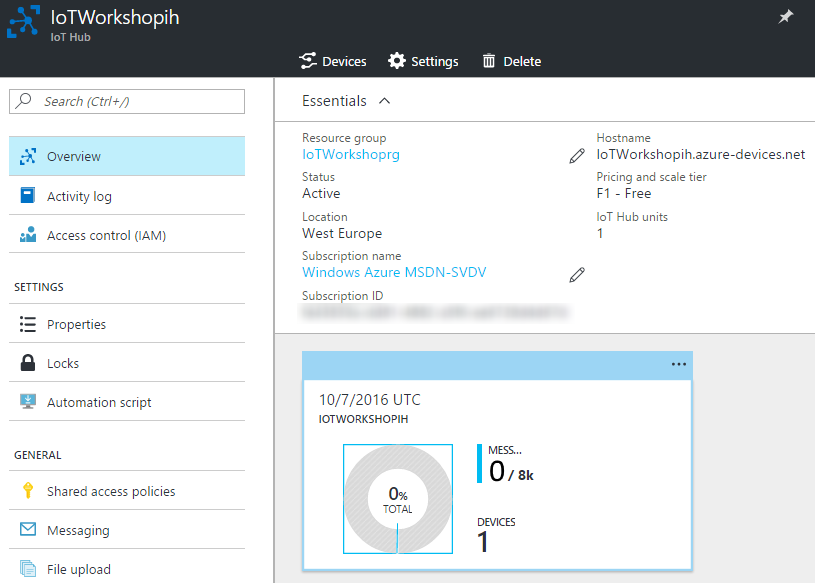
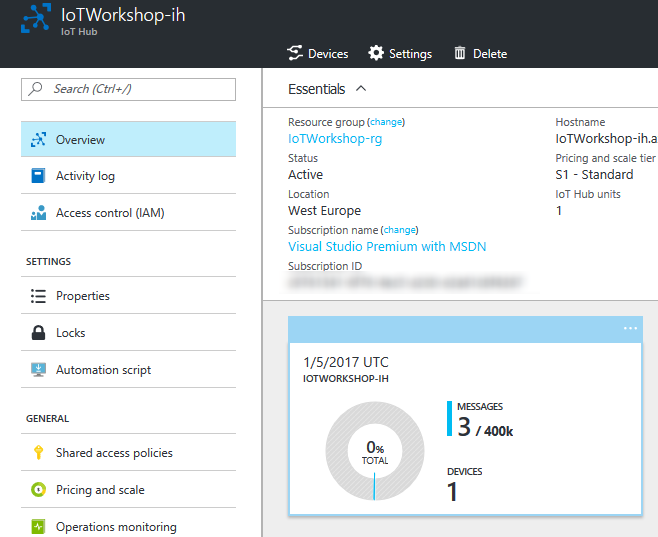
Fixed uwp app. the command line tool failed on me!

diff --git a/UwpToIotHub.md b/UwpToIotHub.md
@@ -319,22 +319,22 @@ Now we have sent telemetry to the Event Hub. Let's check if it's arrived.
 
 ## Monitoring the arrival of the telemetry in Azure
 
-We can monitor the arrival of telemetry only if we have enough rights to look into the IoT Hub.
+We can monitor the arrival of telemetry only if we have enough rights to look into the IoT Hub. So first we collect secrets.
 
 ### Collect Azure IoT Hub secrets
 
 The integration requires an Azure IoT Hub Shared access policy key name with `Registry read, write and Device connect` permissions. In this example, we use the **iothubowner** policy which has these permissions enabled by default.
 
-1. Check the Azure portal. The resource group and the IoT Hub should be created by now
+1. Check the Azure portal. The resource group and the IoT Hub should be created by now (otherwise we were unable to send duty cycles information to it)
 
-    ![alt tag](img/UwpToIotHub/azure-notifications.png)
+    ![alt tag](img/UwpToIotHub/azure-notifications-iothub.png)
 
 2. On the left, select `Resource groups`. A list of resource groups is shown
 
     ![alt tag](img/UwpToIotHub/azure-resource-groups.png)
 
-3. Select the resource group `IoTWorkshoprg`. It will open a new blade with all resources in this group
-4. Select the IoT Hub `IoTWorkshopih`. It will open a new blade with the IoT Hub
+3. Select the resource group `IoTWorkshop-rg`. It will open a new blade with all resources in this group
+4. Select the IoT Hub `IoTWorkshop-ih`. It will open a new blade with the IoT Hub
 
     ![alt tag](img/UwpToIotHub/azure-iot-hub-initial.png)
 
@@ -342,7 +342,7 @@ The integration requires an Azure IoT Hub Shared access policy key name with `Re
 
     ![alt tag](img/UwpToIotHub/azure-iot-hub-share-access-policy.png)
 
-6. **Write down** the `name` of the IoT Hub eg. `IoTWorkshopih`
+6. **Write down** the `name` of the IoT Hub eg. `IoTWorkshop-ih`
 7. Navigate to the 'iothubowner' policy and **write down** this `Connection String-Primary Key`
 
     ![alt tag](img/UwpToIotHub/azure-iothubowner-policy.png)
@@ -372,46 +372,47 @@ To run the Device Explorer tool, double-click the DeviceExplorer.exe file in Win
 
     ![alt tag](img/UwpToIotHub/ihe-devices.png)
 
-5. On the Data tab, Select your `Device ID` and press `Monitor`
-6. This will result in the following messages
+5. On the Data tab, Select your `Device ID` (like 'MachineCyclesUwp') and press `Monitor`
+6. This will result in the following messages when you send some Duty Cycle telemetry in your UWP app
 
     ```
     Receiving events...
-    10/07/16 23:14:10> Device: [DummyDevice], Data:[{"waterLevel":13}]
-    10/07/16 23:14:12> Device: [DummyDevice], Data:[{"waterLevel":18}]
-    10/07/16 23:14:13> Device: [DummyDevice], Data:[{"waterLevel":2}]
+    1/5/2017 9:46:18 PM> Device: [MachineCyclesUwp], Data:[{"errorCode":0,"numberOfCycles":1}]
+    1/5/2017 9:46:19 PM> Device: [MachineCyclesUwp], Data:[{"errorCode":0,"numberOfCycles":2}]
+    1/5/2017 9:46:20 PM> Device: [MachineCyclesUwp], Data:[{"errorCode":0,"numberOfCycles":3}]
     ```
 
 ### Monitoring using Command-line
 
 We can check the arrival of the messages in the Azure IoT Hub using the IoT Hub Explorer. This tool is Command-Line based, please check the installation requirements. 
 
-*Note : See the [full example](https://github.com/Azure/azure-iot-sdks/tree/master/tools/iothub-explorer) for more options of this tool.*
+*Note : See the [full example](https://www.npmjs.com/package/iothub-explorer) for more options of this tool.*
 
 1. Create a new folder eg. `c:\iothubexplorer`
-2. In a dos-box, navigate to the new folder 
+2. In a dos-box (press Windows button-R, type CMD and enter), navigate to the new folder `c:\iothubexplorer`
 3. In this folder, run the following command `npm install -g iothub-explorer@latest` in your command-line environment, to install the latest (pre-release) version of the iothub-explorer tool
 4. Login to the IoT Hub Explorer by supplying your *remembered* IoT Hub `Connection String-primary key` using the command `iothub-explorer login "[your connection string]"`
 5. A session with the IoT Hub will start and it will last for approx. one hour:
 
     ```
-    Session started, expires Tue Sep 27 2016 18:35:37 GMT+0200 (W. Europe Daylight Time)
+    Session started, expires on Thu Jan 05 2017 22:53:55 GMT+0100 (W. Europe Standard Time)
     ```
 
-6. To monitor the device-to-cloud messages from a device, use the following command `iothub-explorer "[your connection string]" monitor-events [device name]`  and `fill in` your *remembered* IoT Hub 'Connection String-primary key' and *remember* device name
+6. To monitor the device-to-cloud messages from a device, use the following command `iothub-explorer monitor-events [device name]`  and `fill in` your *remember* device name (like 'MachineCyclesUwp')
 7. This will result in the following messages
 
     ```
     Monitoring events from device DummyDevice
     Event received:
     {
-      "waterLevel": 12
+      "errorCode" : 12,
+      "numberOfCycles" : 1
     }
     ```
 
 ## Conclusion
 
-The messages are shown here too. These messages are now available in Azure.
+These messages shown during the monitoring step are now available in Azure, and kept in the IotHub until other resources are asking for telemetry...
 
 Next Step: You are now ready to process your data in an Azure Function.
 
